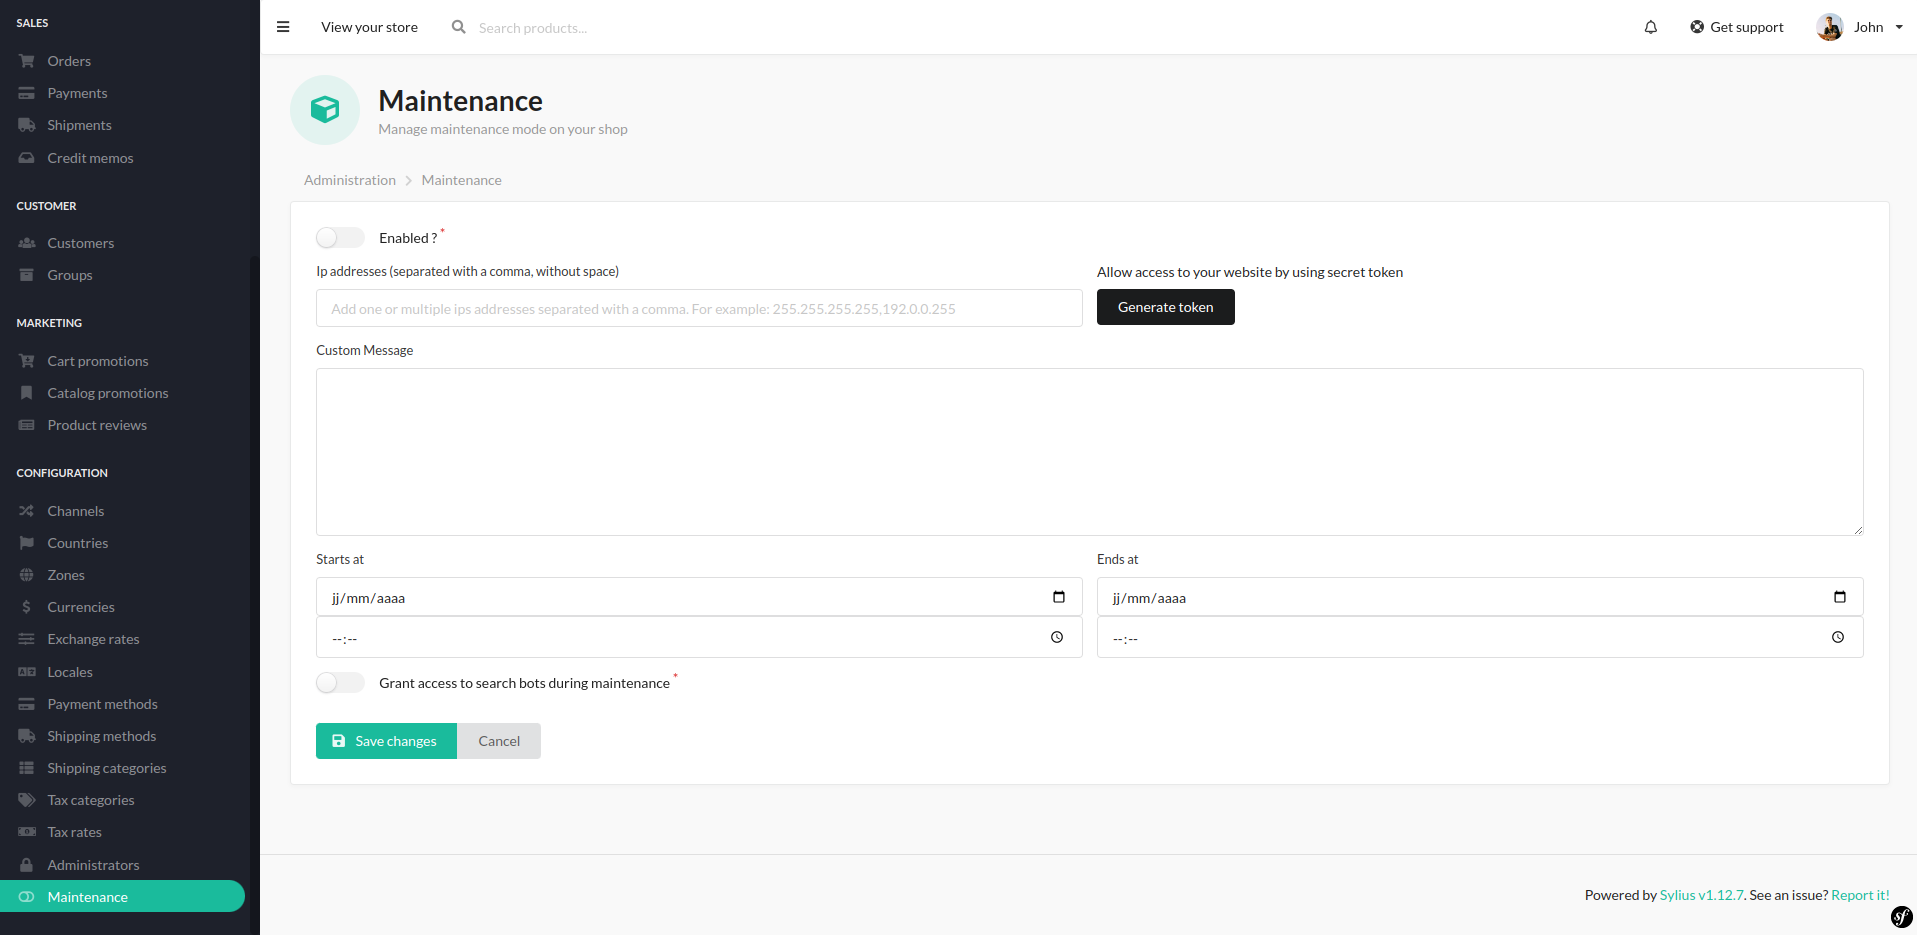
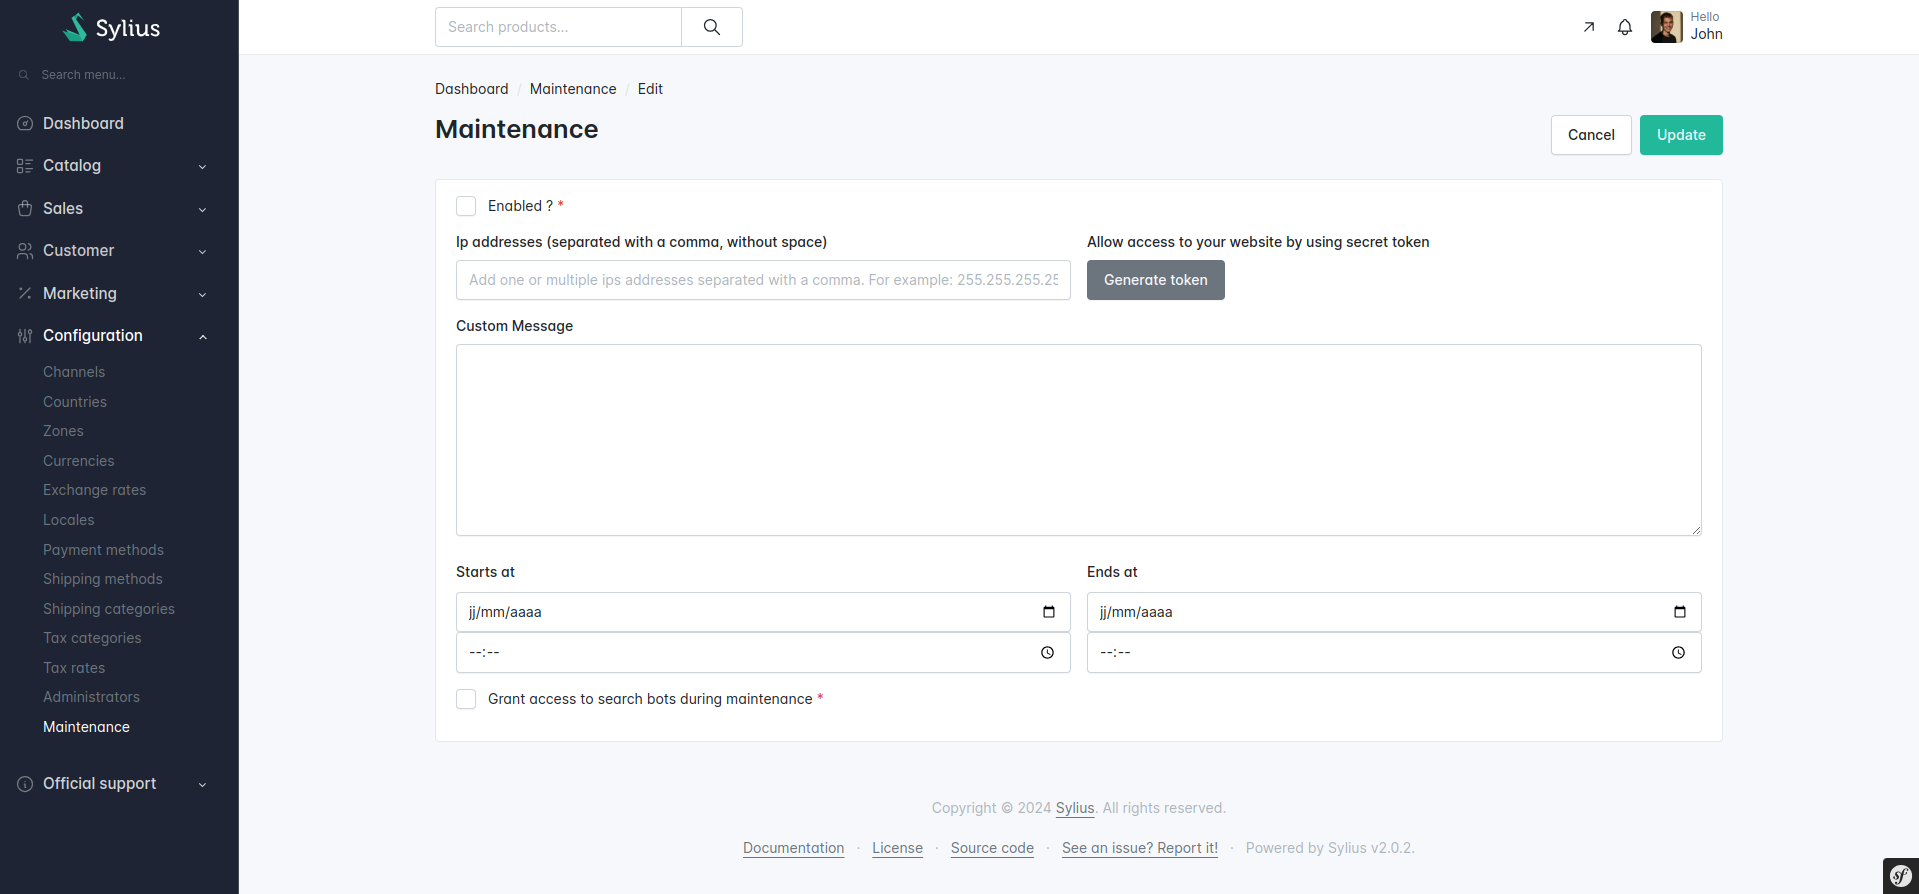
feat(upgrade): bump codebase to match sylius v2.0.x

diff --git a/tests/PHPUnit/AssertTrait.php b/tests/PHPUnit/AssertTrait.php
@@ -10,7 +10,7 @@ trait AssertTrait
     {
         self::assertResponseIsSuccessful();
         self::assertPageTitleContains('Fashion Web Store');
-        self::assertSelectorTextContains('#footer', 'Powered by Sylius');
+        self::assertSelectorTextContains('footer', 'Powered by Sylius');
     }
 
     protected function assertSiteIsInMaintenance(string $message = 'maintenance.ui.message'): void

diff --git a/README.md b/README.md
@@ -30,7 +30,7 @@
 |        | Version |
 |:-------|:--------|
 | PHP    | ^8.2    |
-| Sylius | ^1.12   |
+| Sylius | ~2.0    |
 
 ## Installation
 
